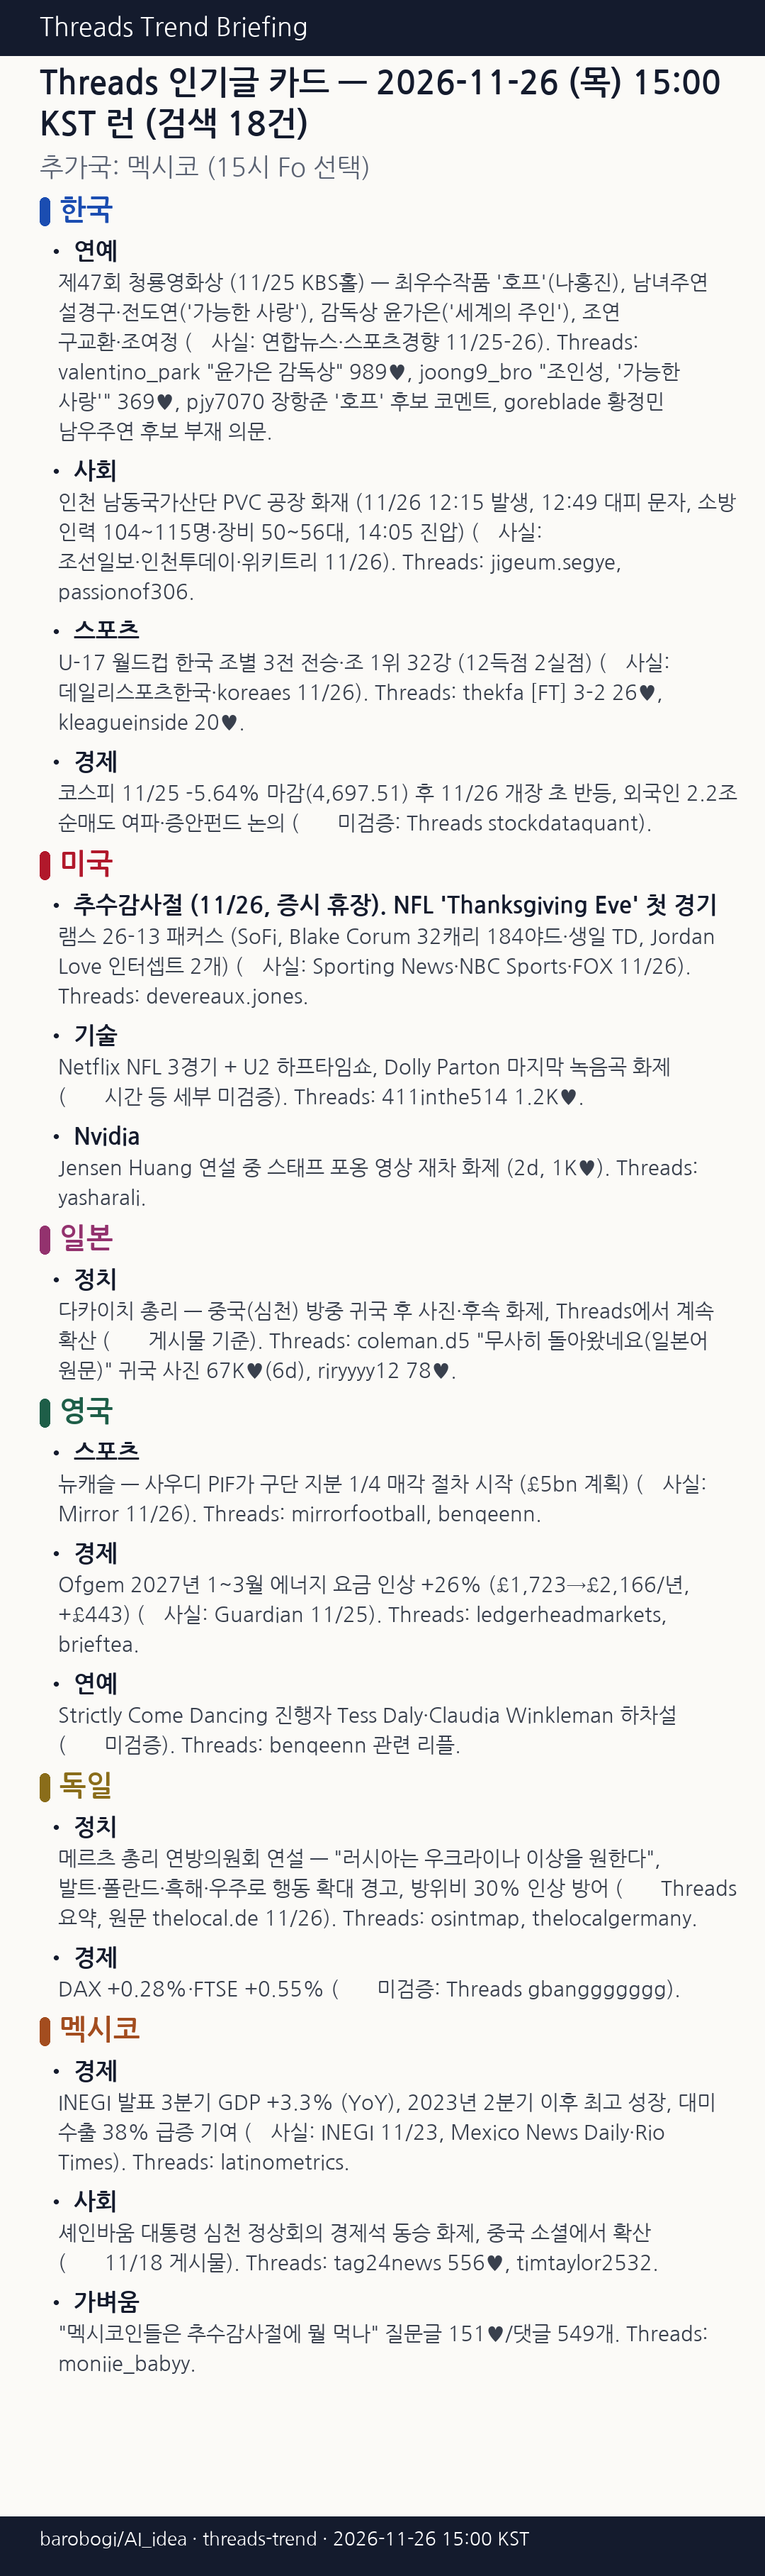
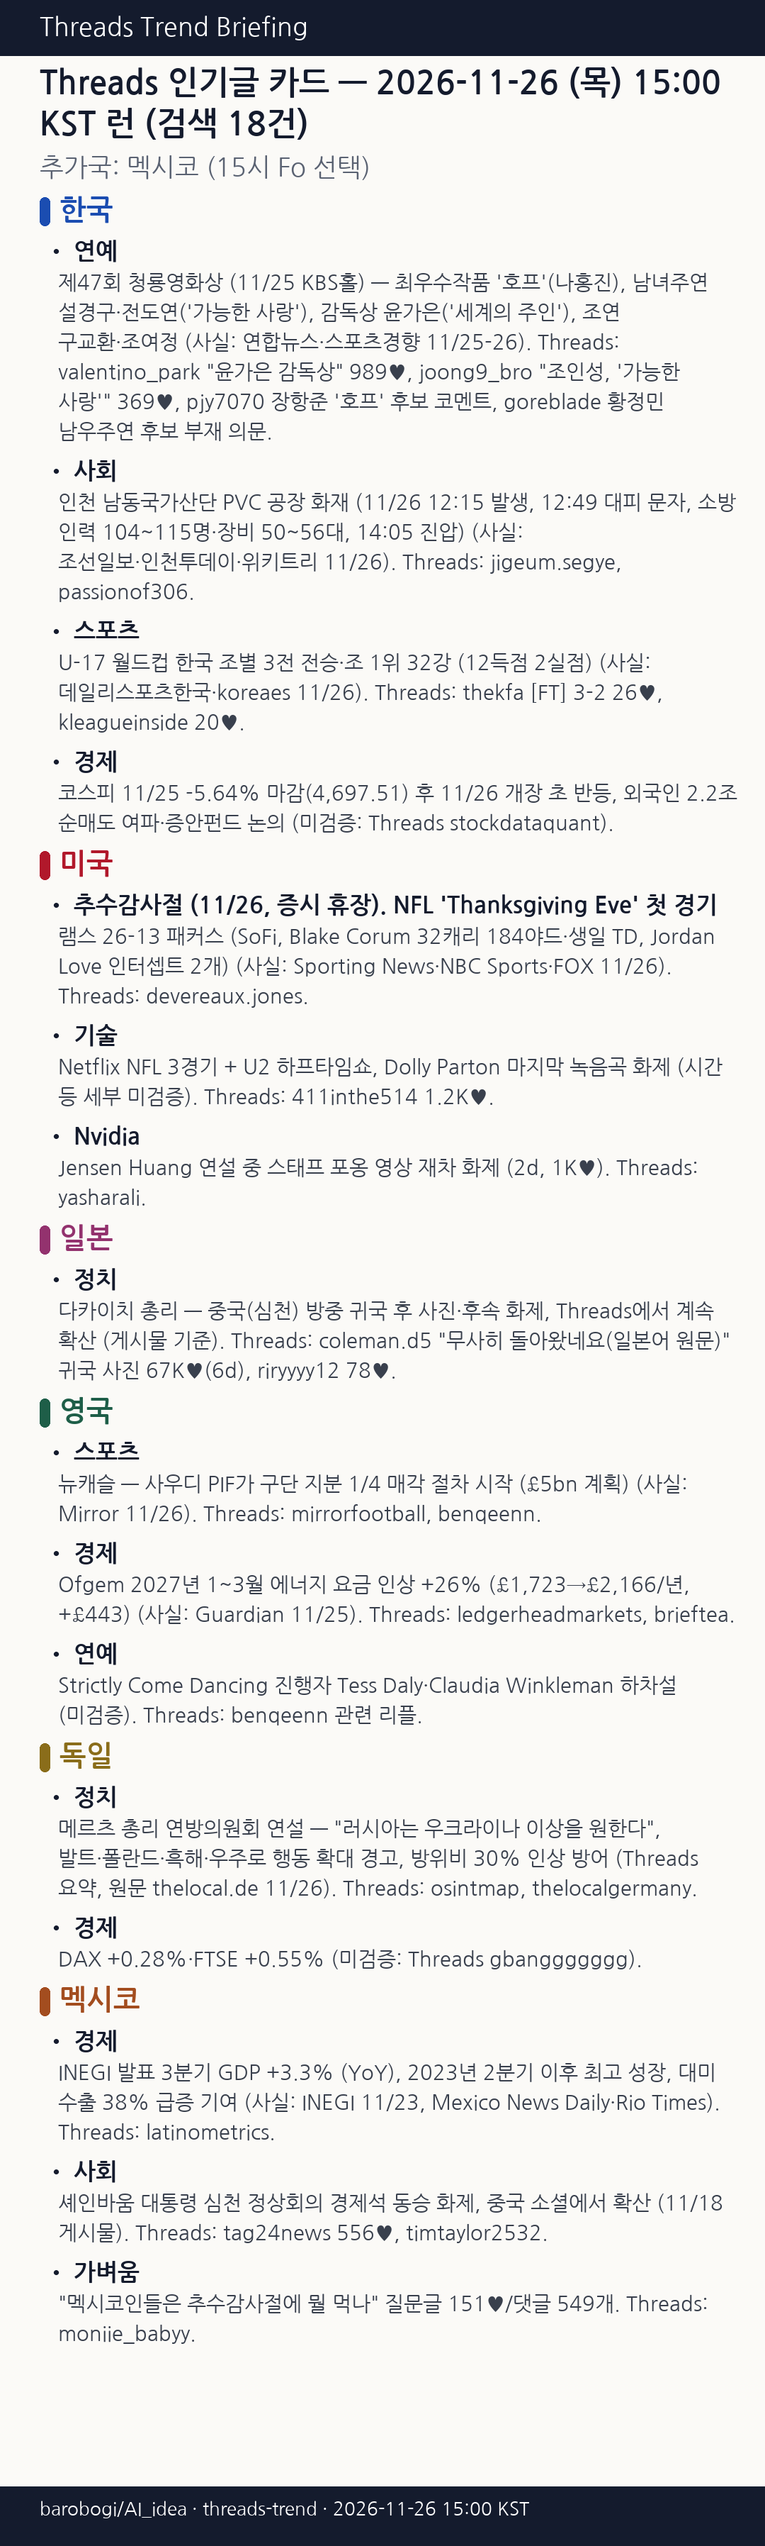
15시 카드/PDF 마커 글리프 수정 (이모지 마커 제거)

diff --git a/threads-trend/2026-11-26/card_15.md b/threads-trend/2026-11-26/card_15.md
@@ -2,29 +2,29 @@
 추가국: 멕시코 (15시 Fo 선택)
 
 ## 한국
-- 연예: 제47회 청룡영화상 (11/25 KBS홀) — 최우수작품 '호프'(나홍진), 남녀주연 설경구·전도연('가능한 사랑'), 감독상 윤가은('세계의 주인'), 조연 구교환·조여정 (✅사실: 연합뉴스·스포츠경향 11/25-26). Threads: valentino_park "윤가은 감독상" 989♥, joong9_bro "조인성, '가능한 사랑'" 369♥, pjy7070 장항준 '호프' 후보 코멘트, goreblade 황정민 남우주연 후보 부재 의문.
-- 사회: 인천 남동국가산단 PVC 공장 화재 (11/26 12:15 발생, 12:49 대피 문자, 소방 인력 104~115명·장비 50~56대, 14:05 진압) (✅사실: 조선일보·인천투데이·위키트리 11/26). Threads: jigeum.segye, passionof306.
-- 스포츠: U-17 월드컵 한국 조별 3전 전승·조 1위 32강 (12득점 2실점) (✅사실: 데일리스포츠한국·koreaes 11/26). Threads: thekfa [FT] 3-2 26♥, kleagueinside 20♥.
-- 경제: 코스피 11/25 -5.64% 마감(4,697.51) 후 11/26 개장 초 반등, 외국인 2.2조 순매도 여파·증안펀드 논의 (⚠미검증: Threads stockdataquant).
+- 연예: 제47회 청룡영화상 (11/25 KBS홀) — 최우수작품 '호프'(나홍진), 남녀주연 설경구·전도연('가능한 사랑'), 감독상 윤가은('세계의 주인'), 조연 구교환·조여정 (사실: 연합뉴스·스포츠경향 11/25-26). Threads: valentino_park "윤가은 감독상" 989♥, joong9_bro "조인성, '가능한 사랑'" 369♥, pjy7070 장항준 '호프' 후보 코멘트, goreblade 황정민 남우주연 후보 부재 의문.
+- 사회: 인천 남동국가산단 PVC 공장 화재 (11/26 12:15 발생, 12:49 대피 문자, 소방 인력 104~115명·장비 50~56대, 14:05 진압) (사실: 조선일보·인천투데이·위키트리 11/26). Threads: jigeum.segye, passionof306.
+- 스포츠: U-17 월드컵 한국 조별 3전 전승·조 1위 32강 (12득점 2실점) (사실: 데일리스포츠한국·koreaes 11/26). Threads: thekfa [FT] 3-2 26♥, kleagueinside 20♥.
+- 경제: 코스피 11/25 -5.64% 마감(4,697.51) 후 11/26 개장 초 반등, 외국인 2.2조 순매도 여파·증안펀드 논의 (미검증: Threads stockdataquant).
 
 ## 미국
-- 추수감사절 (11/26, 증시 휴장). NFL 'Thanksgiving Eve' 첫 경기: 램스 26-13 패커스 (SoFi, Blake Corum 32캐리 184야드·생일 TD, Jordan Love 인터셉트 2개) (✅사실: Sporting News·NBC Sports·FOX 11/26). Threads: devereaux.jones.
-- 기술: Netflix NFL 3경기 + U2 하프타임쇼, Dolly Parton 마지막 녹음곡 화제 (⚠시간 등 세부 미검증). Threads: 411inthe514 1.2K♥.
+- 추수감사절 (11/26, 증시 휴장). NFL 'Thanksgiving Eve' 첫 경기: 램스 26-13 패커스 (SoFi, Blake Corum 32캐리 184야드·생일 TD, Jordan Love 인터셉트 2개) (사실: Sporting News·NBC Sports·FOX 11/26). Threads: devereaux.jones.
+- 기술: Netflix NFL 3경기 + U2 하프타임쇼, Dolly Parton 마지막 녹음곡 화제 (시간 등 세부 미검증). Threads: 411inthe514 1.2K♥.
 - Nvidia: Jensen Huang 연설 중 스태프 포옹 영상 재차 화제 (2d, 1K♥). Threads: yasharali.
 
 ## 일본
-- 정치: 다카이치 총리 — 중국(심천) 방중 귀국 후 사진·후속 화제, Threads에서 계속 확산 (⚠게시물 기준). Threads: coleman.d5 "무사히 돌아왔네요(일본어 원문)" 귀국 사진 67K♥(6d), riryyyy12 78♥.
+- 정치: 다카이치 총리 — 중국(심천) 방중 귀국 후 사진·후속 화제, Threads에서 계속 확산 (게시물 기준). Threads: coleman.d5 "무사히 돌아왔네요(일본어 원문)" 귀국 사진 67K♥(6d), riryyyy12 78♥.
 
 ## 영국
-- 스포츠: 뉴캐슬 — 사우디 PIF가 구단 지분 1/4 매각 절차 시작 (£5bn 계획) (✅사실: Mirror 11/26). Threads: mirrorfootball, benqeenn.
-- 경제: Ofgem 2027년 1~3월 에너지 요금 인상 +26% (£1,723→£2,166/년, +£443) (✅사실: Guardian 11/25). Threads: ledgerheadmarkets, brieftea.
-- 연예: Strictly Come Dancing 진행자 Tess Daly·Claudia Winkleman 하차설 (⚠미검증). Threads: benqeenn 관련 리플.
+- 스포츠: 뉴캐슬 — 사우디 PIF가 구단 지분 1/4 매각 절차 시작 (£5bn 계획) (사실: Mirror 11/26). Threads: mirrorfootball, benqeenn.
+- 경제: Ofgem 2027년 1~3월 에너지 요금 인상 +26% (£1,723→£2,166/년, +£443) (사실: Guardian 11/25). Threads: ledgerheadmarkets, brieftea.
+- 연예: Strictly Come Dancing 진행자 Tess Daly·Claudia Winkleman 하차설 (미검증). Threads: benqeenn 관련 리플.
 
 ## 독일
-- 정치: 메르츠 총리 연방의원회 연설 — "러시아는 우크라이나 이상을 원한다", 발트·폴란드·흑해·우주로 행동 확대 경고, 방위비 30% 인상 방어 (⚠Threads 요약, 원문 thelocal.de 11/26). Threads: osintmap, thelocalgermany.
-- 경제: DAX +0.28%·FTSE +0.55% (⚠미검증: Threads gbanggggggg).
+- 정치: 메르츠 총리 연방의원회 연설 — "러시아는 우크라이나 이상을 원한다", 발트·폴란드·흑해·우주로 행동 확대 경고, 방위비 30% 인상 방어 (Threads 요약, 원문 thelocal.de 11/26). Threads: osintmap, thelocalgermany.
+- 경제: DAX +0.28%·FTSE +0.55% (미검증: Threads gbanggggggg).
 
 ## 멕시코 (15시 추가국)
-- 경제: INEGI 발표 3분기 GDP +3.3% (YoY), 2023년 2분기 이후 최고 성장, 대미 수출 38% 급증 기여 (✅사실: INEGI 11/23, Mexico News Daily·Rio Times). Threads: latinometrics.
-- 사회: 셰인바움 대통령 심천 정상회의 경제석 동승 화제, 중국 소셜에서 확산 (⚠11/18 게시물). Threads: tag24news 556♥, timtaylor2532.
+- 경제: INEGI 발표 3분기 GDP +3.3% (YoY), 2023년 2분기 이후 최고 성장, 대미 수출 38% 급증 기여 (사실: INEGI 11/23, Mexico News Daily·Rio Times). Threads: latinometrics.
+- 사회: 셰인바움 대통령 심천 정상회의 경제석 동승 화제, 중국 소셜에서 확산 (11/18 게시물). Threads: tag24news 556♥, timtaylor2532.
 - 가벼움: "멕시코인들은 추수감사절에 뭘 먹나" 질문글 151♥/댓글 549개. Threads: moniie_babyy.
